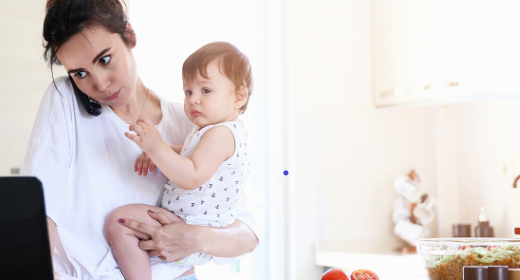
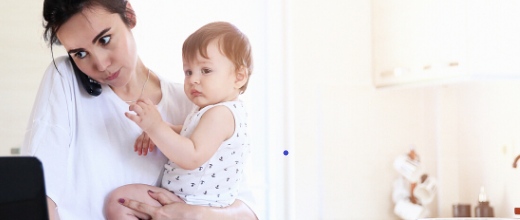
editted size of landing page carousel

diff --git a/src/components/landingPage/LandingPage.js b/src/components/landingPage/LandingPage.js
@@ -55,7 +55,7 @@ class LandingPage extends React.Component {
   render() {
     return (
         <div style={{backgroundColor: "#eff0f2"}}>
-            <UncontrolledCarousel items = {items} className = "carousel-image-style"/>
+            <UncontrolledCarousel items = { items } className = "carousel-image-style"/>
                 <Container fluid className="vertical-center">
                     <h1 className="display-3">Locals. Learning. Live</h1>
                     <p className="lead">

diff --git a/src/components/landingPage/LandingPage.css b/src/components/landingPage/LandingPage.css
@@ -1,6 +1,6 @@
 h1.display-3 {
     text-align: center;
-    color: black;
+    color: #000000;
     font-weight: 400;
     font-size: 2em;
     padding-bottom: 1em;
@@ -106,5 +106,5 @@ a.explore-button:hover {
 }
 
 .carousel-image-style{
-    height: 23em;
+    height: 30em;
 }
